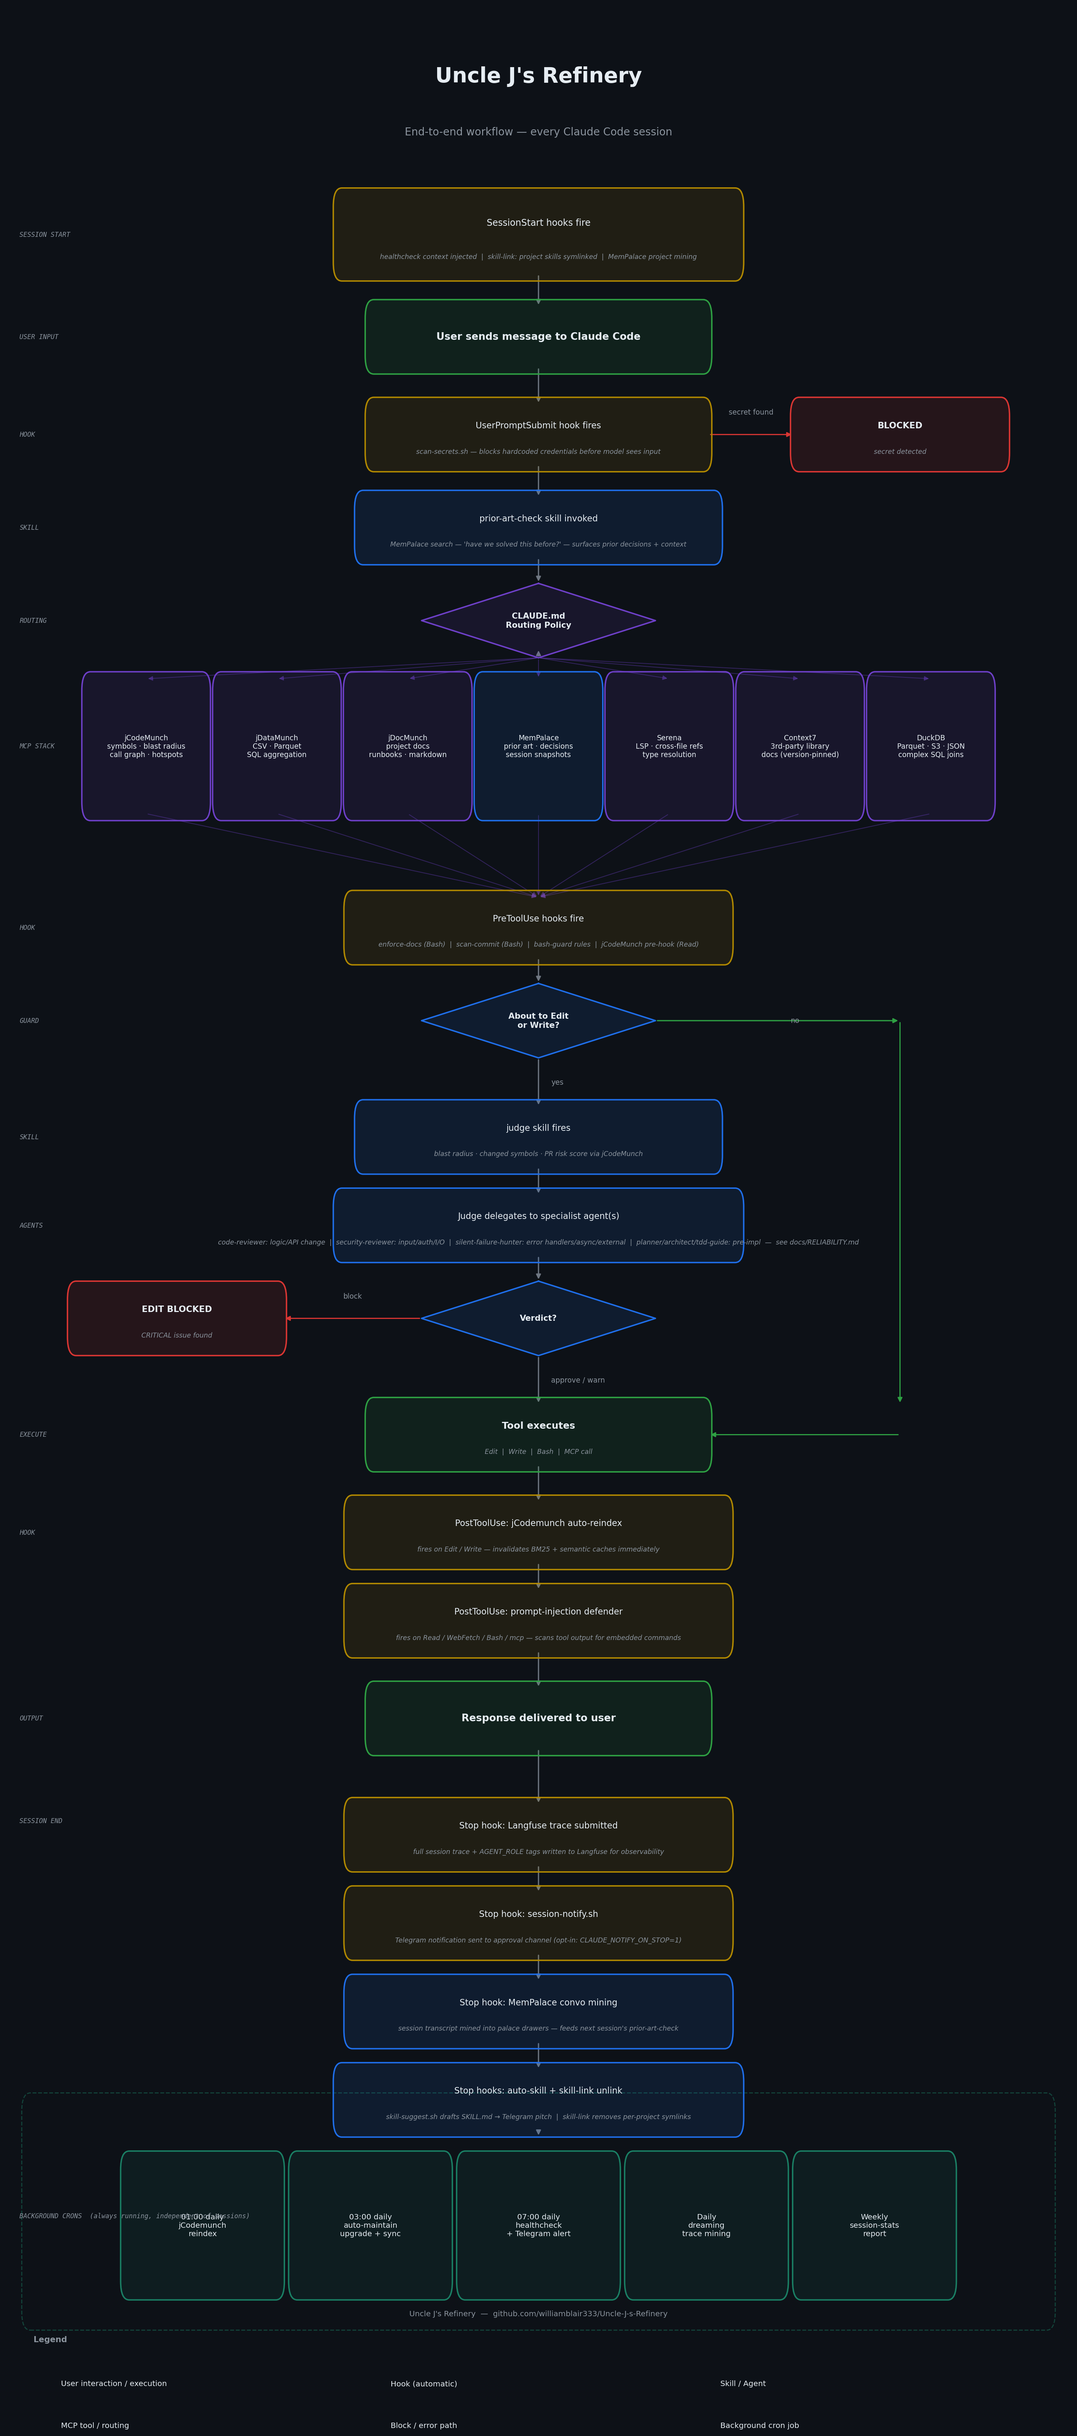
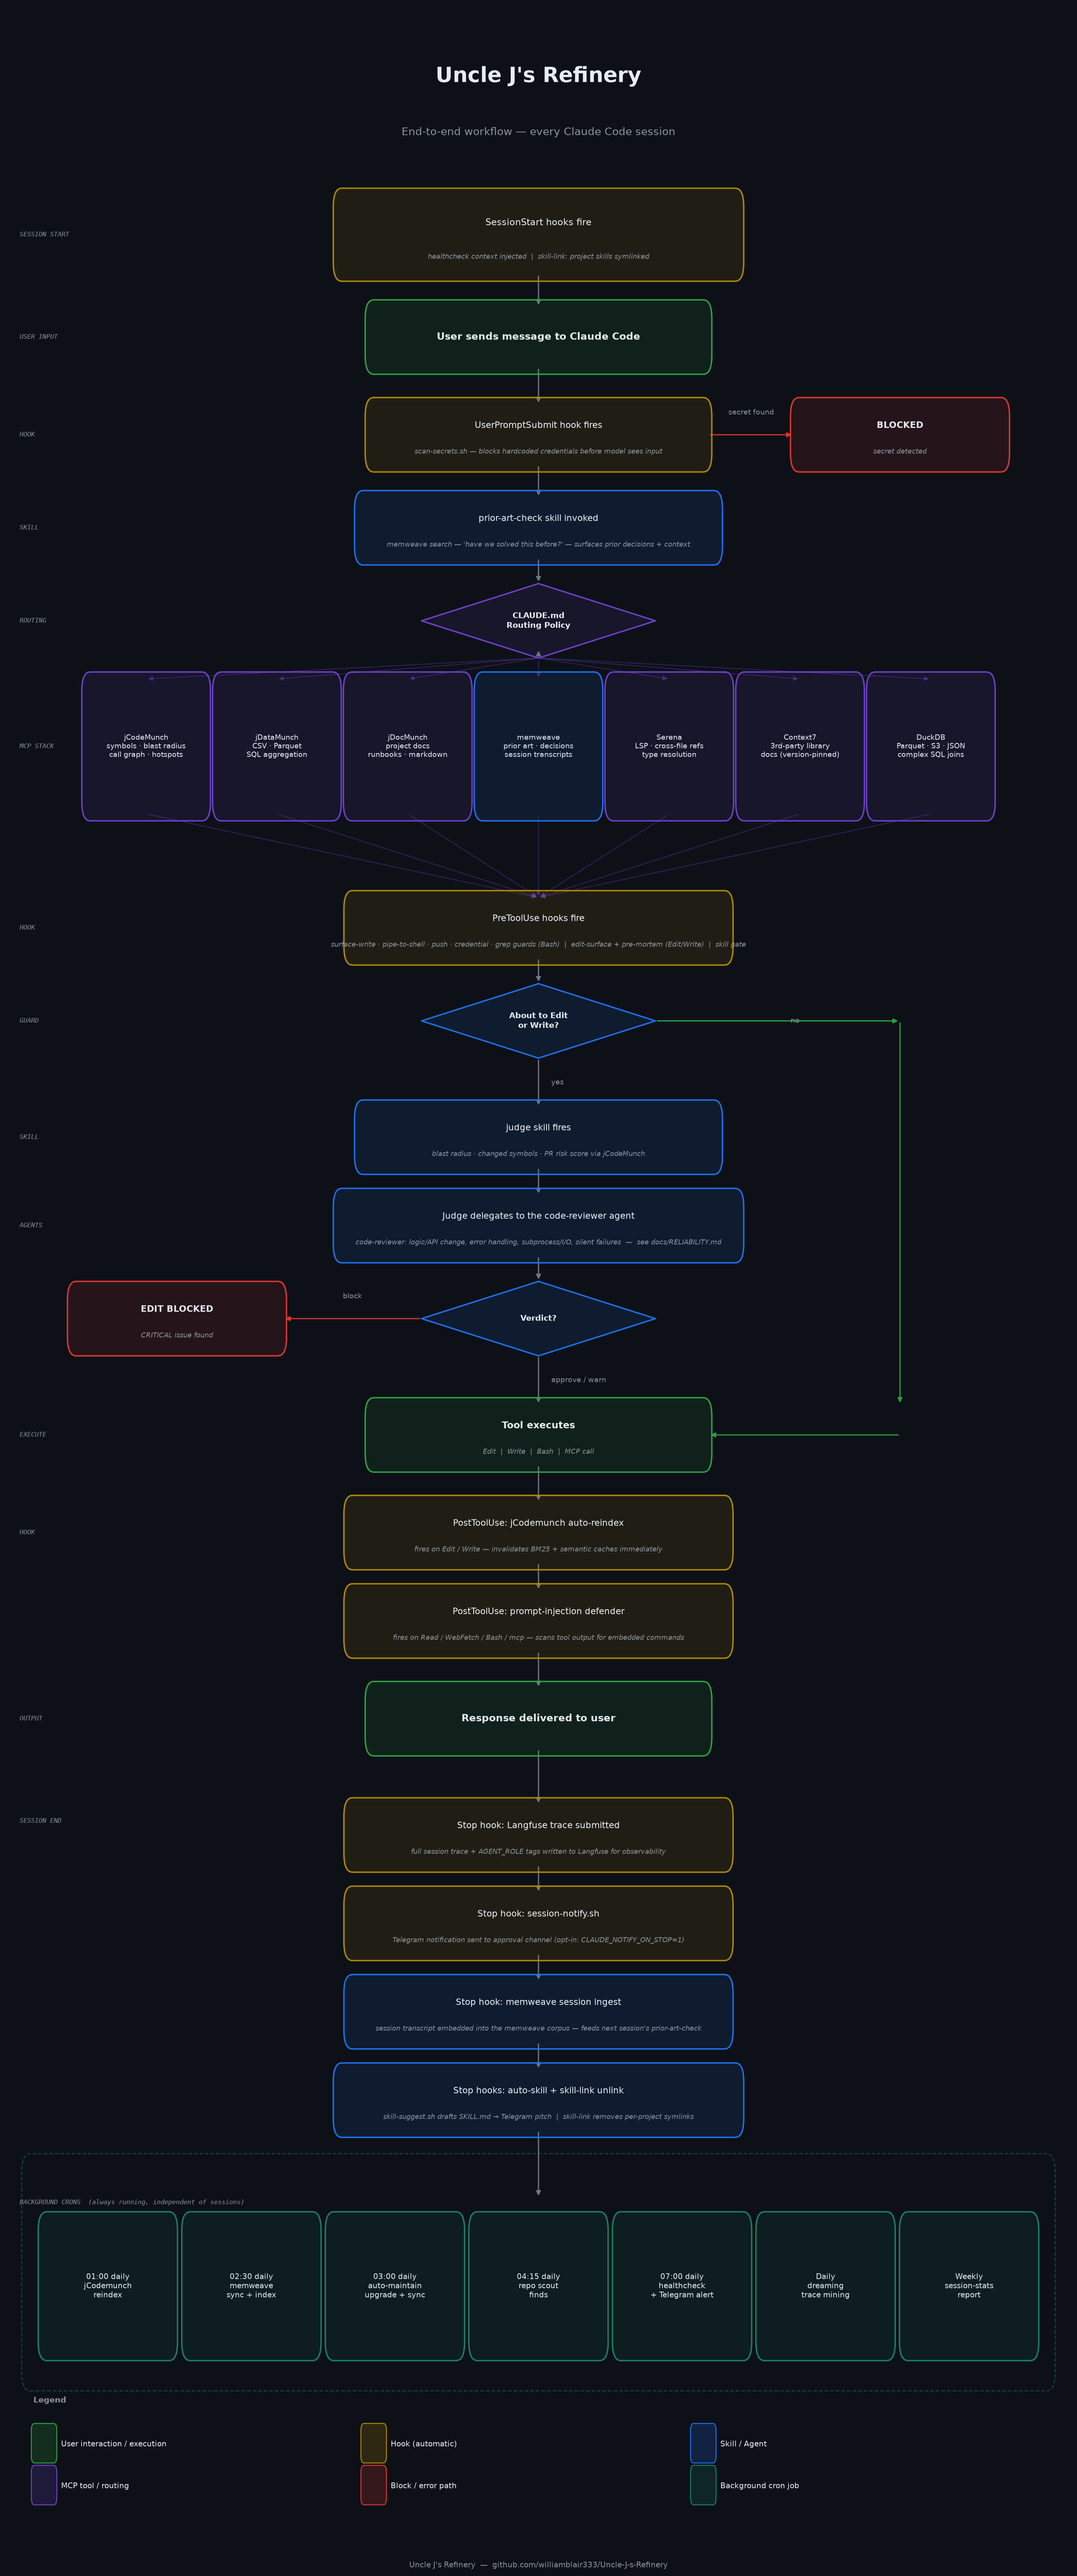
docs(flowchart): re-render without MemPalace; current guards and crons; fix clipping

diff --git a/scripts/generate-flowchart.py b/scripts/generate-flowchart.py
@@ -79,12 +79,16 @@ def section_tag(ax, y, text):
             fontfamily="monospace", zorder=5)
 
 # ── Figure ────────────────────────────────────────────────────────────────────
-FW, FH = 20, 44
+# The layout runs below y=0 (crons, legend), so the axes extend to Y_MIN; FH grows
+# in proportion to keep box shapes. With ylim(0, 1) the cron boxes, legend swatches
+# and footer were clipped or overprinted (2026-11-04).
+Y_MIN = -0.075
+FW, FH = 20, 44 * (1 - Y_MIN)
 fig, ax = plt.subplots(figsize=(FW, FH))
 fig.patch.set_facecolor(BG)
 ax.set_facecolor(BG)
 ax.set_xlim(0, 1)
-ax.set_ylim(0, 1)
+ax.set_ylim(Y_MIN, 1)
 ax.axis("off")
 
 CX  = 0.50   # main spine x
@@ -152,14 +156,15 @@ STOP_LABEL_Y = y;   y -= 0.002
 SH1_Y = y;          y -= GAP + 0.004   # langfuse
 SH2_Y = y;          y -= GAP + 0.004   # session-notify (Telegram)
 SH3_Y = y;          y -= GAP + 0.004   # memweave session ingest
-SH4_Y = y;          y -= GAP + 0.016   # skill-suggest + skill-link unlink
+SH4_Y = y;          y -= GAP + 0.010   # skill-suggest + skill-link unlink
 
-# CRON section
-CRON_LABEL_Y = y;   y -= 0.004
+# CRON section — label sits above the boxes, inside the dashed border (it used to
+# share their y and overprint the first box)
+CRON_LABEL_Y = y;   y -= 0.036
 CRON_Y = y;         y -= 0.058
 
 LEGEND_Y = y - 0.010
-FOOTER_Y = 0.008
+FOOTER_Y = LEGEND_Y - 0.052   # below both legend rows
 
 # ── TITLE ─────────────────────────────────────────────────────────────────────
 ax.text(CX, TITLE_Y, "Uncle J's Refinery",
@@ -222,6 +227,7 @@ TOOLS = [
     ("jCodeMunch\nsymbols · blast radius\ncall graph · hotspots", ROUTE_C),
     ("jDataMunch\nCSV · Parquet\nSQL aggregation",                ROUTE_C),
     ("jDocMunch\nproject docs\nrunbooks · markdown",              ROUTE_C),
+    ("memweave\nprior art · decisions\nsession transcripts",      SKILL_C),
     ("Serena\nLSP · cross-file refs\ntype resolution",            ROUTE_C),
     ("Context7\n3rd-party library\ndocs (version-pinned)",        ROUTE_C),
     ("DuckDB\nParquet · S3 · JSON\ncomplex SQL joins",            ROUTE_C),
@@ -254,7 +260,7 @@ section_tag(ax, PTU_Y, "HOOK")
 box(ax, CX, PTU_Y, W + 0.04, H,
     "PreToolUse hooks fire",
     HOOK_C,
-    sublabel="enforce-docs (Bash)  |  scan-commit (Bash)  |  bash-guard rules  |  jCodeMunch pre-hook (Read)")
+    sublabel="surface-write · pipe-to-shell · push · credential · grep guards (Bash)  |  edit-surface + pre-mortem (Edit/Write)  |  skill gate")
 
 arrow(ax, CX, PTU_Y - H/2, CX, EW_Y + DH/2)
 
@@ -378,13 +384,15 @@ section_tag(ax, CRON_LABEL_Y, "BACKGROUND CRONS  (always running, independent of
 
 CRONS = [
     ("01:00 daily\njCodemunch\nreindex",         CRON_C),
+    ("02:30 daily\nmemweave\nsync + index",       CRON_C),
     ("03:00 daily\nauto-maintain\nupgrade + sync",CRON_C),
+    ("04:15 daily\nrepo scout\nfinds",            CRON_C),
     ("07:00 daily\nhealthcheck\n+ Telegram alert",CRON_C),
     ("Daily\ndreaming\ntrace mining",             CRON_C),
     ("Weekly\nsession-stats\nreport",             CRON_C),
 ]
 nc = len(CRONS)
-CW = 0.148
+CW = 0.125
 CH = 0.058
 cpad = 0.010
 ctotal = nc * CW + (nc-1) * cpad

diff --git a/CHANGELOG.md b/CHANGELOG.md
@@ -2,6 +2,14 @@
 
 ---
 
+## 2026-11-04 — flowchart re-rendered (MemPalace gone)
+
+### Fixed
+- `docs/uncle-js-flowchart.png` still showed MemPalace in 4 places (session start, prior-art check, MCP panel, stop hook). `scripts/generate-flowchart.py` had already been updated, but the PNG was never re-rendered. Re-rendered with `uv run --no-project --with matplotlib` (matplotlib isn't in the stack venv).
+- `scripts/generate-flowchart.py`: memweave tile in the MCP panel; current PreToolUse guards (surface-write, pipe-to-shell, push, credential, grep, edit-surface + pre-mortem, skill gate) instead of retired hook names; 02:30 memweave sync and 04:15 repo scout crons. Layout: the cron caption no longer overprints the first box, and the axes extend below 0, so the cron boxes, legend swatches and footer are no longer clipped.
+
+---
+
 ## 2026-11-04 — session end: memweave fix sent upstream, lockfile, scout
 
 ### Added

diff --git a/HANDOFF.md b/HANDOFF.md
@@ -1,5 +1,9 @@
 # Handoff — Uncle J's Refinery
 
+## 2026-11-04 — flowchart re-rendered
+
+- `docs/uncle-js-flowchart.png` no longer mentions MemPalace (the PNG had never been re-rendered after the script switched to memweave). To regenerate: `uv run --no-project --with matplotlib python scripts/generate-flowchart.py`. The stack venv has no matplotlib, on purpose: don't `uv sync` it in.
+
 ## 2026-11-04 — session end (Uncle J session 11f026d2)
 
 - **Done this session:** PRs #302–#304, #306, #308, #309 (surface-guard spans + relative dirs, RAM-revisit trigger, memweave hang fix, two skills, versioned pipe-to-shell guard, live on this host). 125B shelved until 128 GB RAM. Strata weights deleted. Upstream memweave issue #7 + PR #8.
